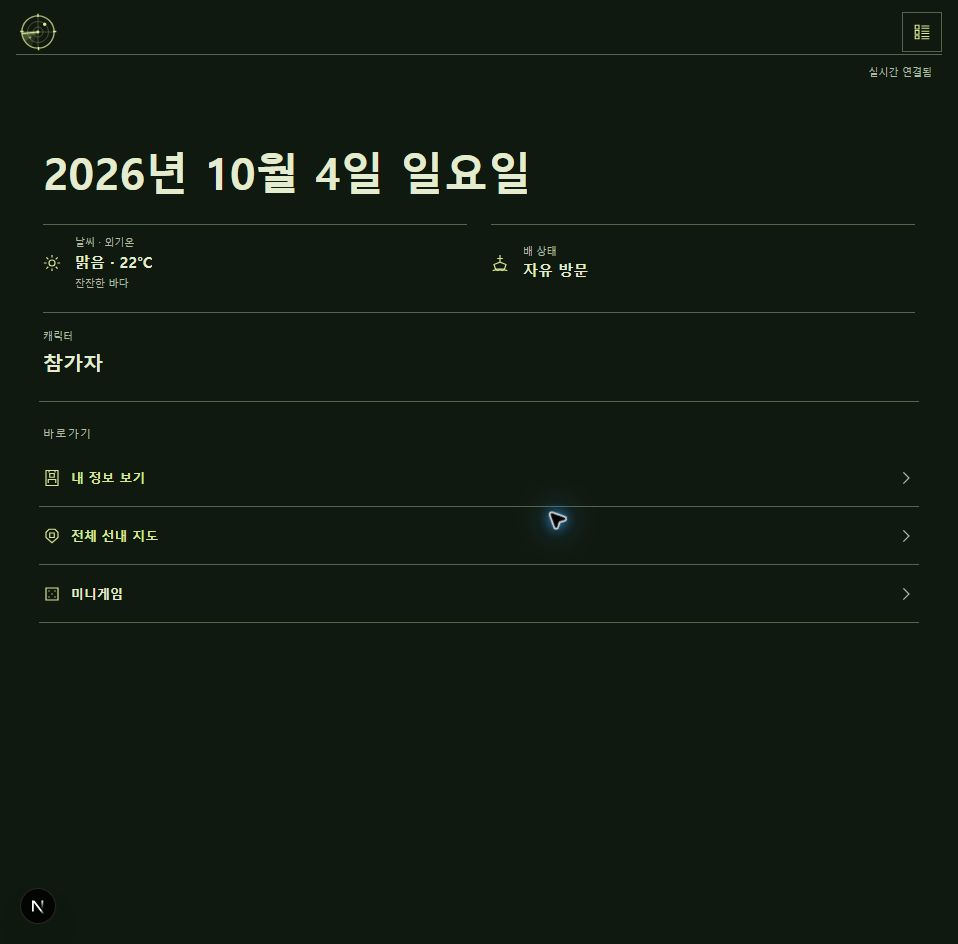
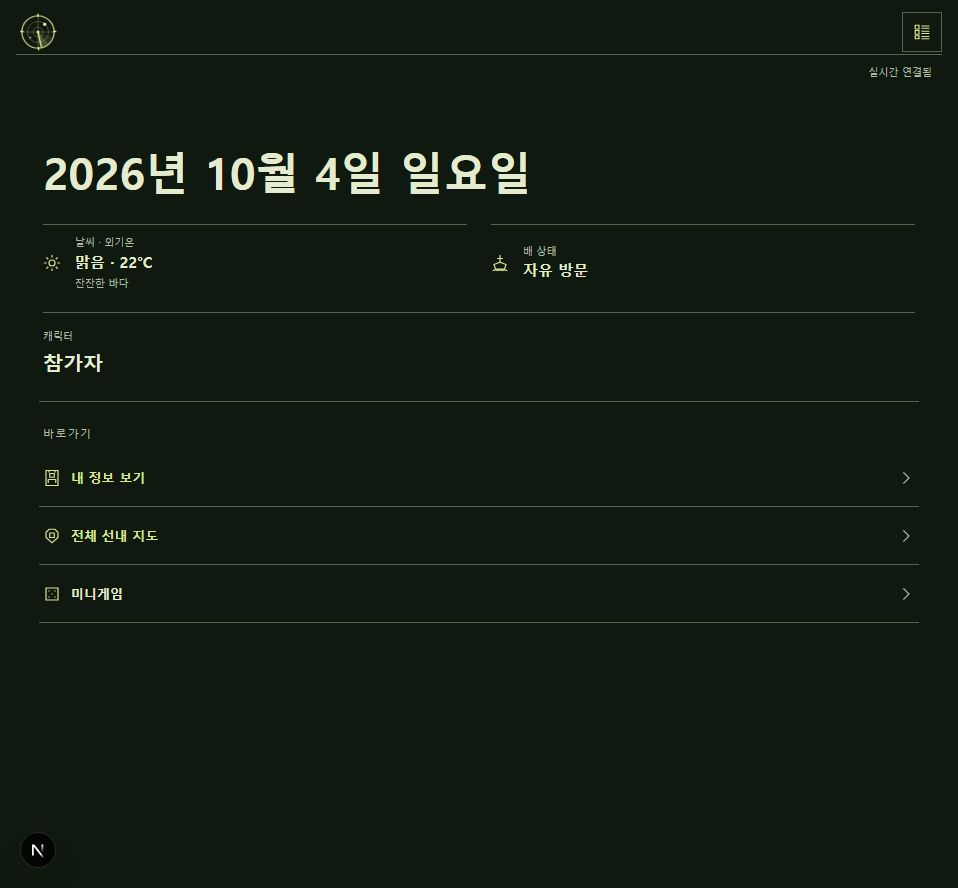
docs: remove cursor from P-Pass home screenshot

diff --git a/ppass-guide.html b/ppass-guide.html
@@ -21,7 +21,7 @@
     <nav class="ppass-nav" aria-label="사용법 목차"><a href="#ppass-menu">기본 메뉴</a><a href="#ppass-investigation">조사 규칙</a><a href="#ppass-items">아이템</a><a href="#ppass-chat">채팅·로그</a><a href="#ppass-desk">객실 책상</a><a href="#ppass-dice">미니게임</a></nav>
     <section class="ppass-card" id="ppass-menu" aria-labelledby="ppass-menu-title">
       <h2 id="ppass-menu-title">01. 기본 메뉴 사용법</h2>
-      <figure class="ppass-capture"><img src="resource/guide/app-home.jpg" width="958" height="944" loading="lazy" alt="일상 기간 P-Pass 홈 화면. 항해 정보와 내 정보, 전체 선내 지도, 미니게임 메뉴가 표시됩니다."><figcaption>일상 기간의 홈 화면입니다. 항해 정보를 확인하고 원하는 메뉴를 선택해 주세요.</figcaption></figure>
+      <figure class="ppass-capture"><img src="resource/guide/app-home.jpg" width="958" height="888" loading="lazy" alt="일상 기간 P-Pass 홈 화면. 항해 정보와 내 정보, 전체 선내 지도, 미니게임 메뉴가 표시됩니다."><figcaption>일상 기간의 홈 화면입니다. 항해 정보를 확인하고 원하는 메뉴를 선택해 주세요.</figcaption></figure>
       <dl class="ppass-menu">
         <dt>홈</dt><dd>조사 가능 여부를 확인하고, 조사 이어하기와 미니게임을 이용할 수 있습니다.</dd>
         <dt>전체 선내 지도</dt><dd>이동하고 싶은 방을 선택해 주세요.</dd>
